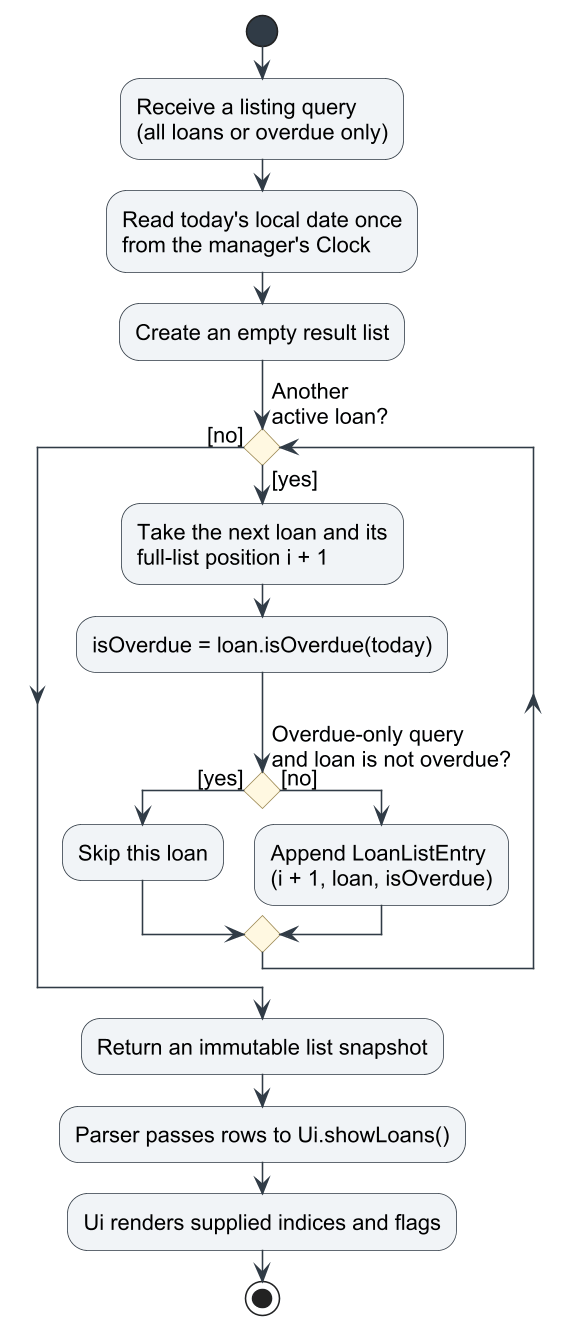
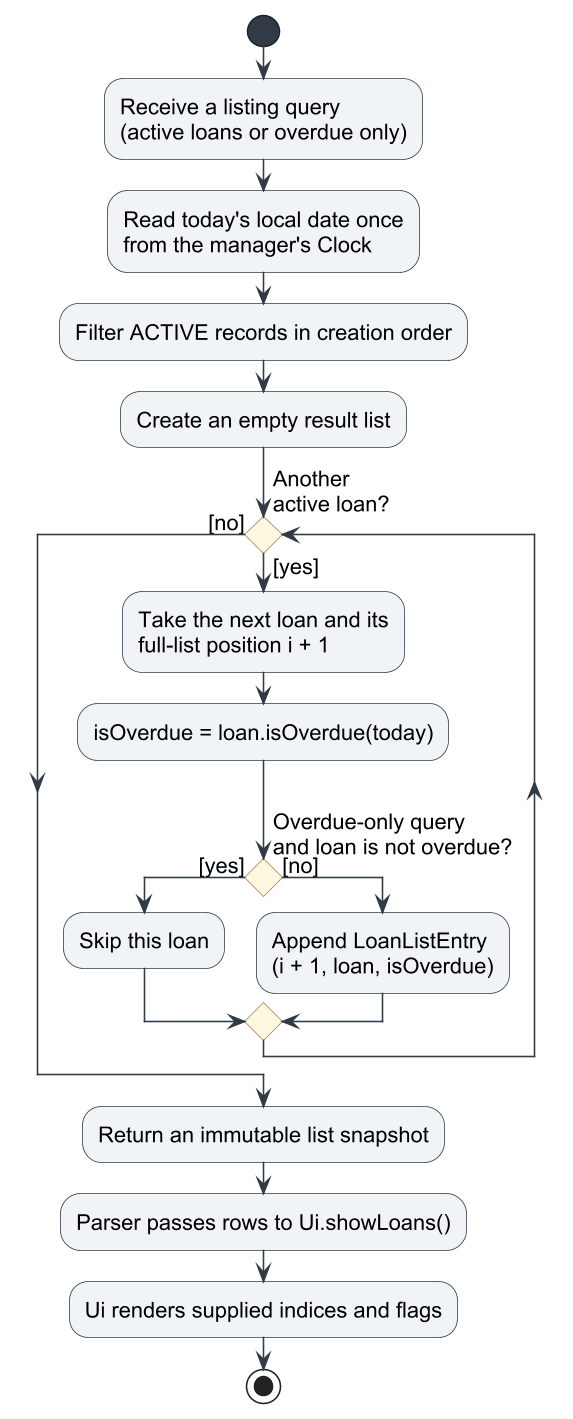
docs: Describe loan history design and UML flows
The Developer Guide and loan diagrams describe removal of completed
records, so they no longer explain the persistent ledger.

Document immutable lifecycle wrappers, stable identities, stock-safe
closure, complete snapshots, and migration. Retain the design
alternatives and update the class, sequence, activity, and architecture
diagrams to match the implementation.

Include rendered images with their editable PlantUML sources. Exclude
phase-planning tables and execution-log references.

Validation: all six updated diagrams are rendered and visually reviewed.

diff --git a/docs/DeveloperGuide.md b/docs/DeveloperGuide.md
@@ -21,6 +21,7 @@
   - [Session preparation](#session-preparation)
   - [Contact management](#contact-management)
   - [Loan tracking](#loan-tracking)
+    - [Loan history](#loan-history)
   - [Student request tracking](#student-request-tracking)
   - [Broken-item tracking](#broken-item-tracking)
   - [Validation and error handling](#validation-and-error-handling)
@@ -150,11 +151,12 @@ The model is composed of domain objects and managers:
 - [`BrokenItemManager`](../src/main/java/seedu/bob/BrokenItemManager.java) coordinates reports, shared inventory,
   and maintenance-contact availability.
 - [`BrokenItem`](../src/main/java/seedu/bob/BrokenItem.java) holds immutable validated damage-report details.
-- [`LoanManager`](../src/main/java/seedu/bob/LoanManager.java) stores active loans and shares the inventory with loans.
+- [`LoanManager`](../src/main/java/seedu/bob/LoanManager.java) retains all loan records and exposes active-only views using the shared inventory.
 - [`Loan`](../src/main/java/seedu/bob/Loan.java) stores an independent item snapshot, quantity, borrower values, and due date.
+- [`LoanRecord`](../src/main/java/seedu/bob/LoanRecord.java) retains a permanent ID, lifecycle status, and recording/closure timestamps.
 - `LoanAdditionResult` and `LoanListEntry` carry immutable operation/query results to the loan UI.
 - `AppState` groups the managers, exports snapshots, and restores complete independent model state.
-- `AppSnapshot` and its nested records describe version-1 storage values without retaining mutable model references.
+- `AppSnapshot` and its nested records describe version-2 storage values without retaining mutable model references.
 
 Managers expose operations rather than their mutable internal collections. Where a collection is returned for querying,
 the implementation returns an immutable snapshot. Domain classes maintain invariants such as positive quantities,
@@ -162,8 +164,9 @@ nonblank names, and conflict-free sessions.
 
 ### Storage component
 
-The [version-1 storage format and behavior contract](StorageFormat.md) defines the persisted fields and recovery
-rules, with [populated](examples/bob-v1.json) and [empty](examples/bob-v1-empty.json) examples.
+The [version-2 storage format and behavior contract](StorageFormat.md) defines the persisted fields and recovery
+rules, with [loan-ledger](examples/bob-v2.json) and [empty](examples/bob-v2-empty.json) examples.
+The older version-1 examples remain fixtures for strict, non-writing migration tests.
 
 ![Storage classes and immutable snapshot boundary](images/storage-class.png)
 
@@ -189,7 +192,8 @@ back, protecting newer-format records. Neither unusable files nor unreadable dir
 
 `SnapshotCodec` uses Gson with strict parsing and a bounded reader that detects duplicate object keys. It checks
 exact field sets and primitive types before deserialization, including explicit nullable contact fields and integer
-ranges. Earlier version-1 files without `brokenItems` load with an empty report list.
+ranges. Version-1 active loans are converted to version-2 history entries in memory, with deterministic IDs
+and unknown recording timestamps. Earlier version-1 files without `brokenItems` load with an empty report list.
 Domain restoration then checks values, duplicates, and session conflicts. JSON errors, unsupported versions,
 and I/O failures are distinguished by `StorageException.Kind`. The default `data` directory is ignored by Git.
 
@@ -198,7 +202,7 @@ the previous valid main as a backup, then replaces the main with an atomic move.
 the save. A corrupt main is never copied over a valid backup. Unsupported atomic moves fail explicitly rather
 than falling back to an in-place write. Temporary cleanup never removes the main or backup. This protects complete
 snapshots across process interruption; it is not a guarantee against all disk or power failures. Concurrent writers
-to the same directory and automatic schema migration are unsupported.
+to the same directory and migration from unsupported schema versions are not supported.
 
 Broken reports are restored separately from available inventory, without deducting their units again.
 Active contact positions reconnect reports to the exact restored contact; deleted-contact details restore a
@@ -783,7 +787,7 @@ word), so a value containing a word such as `a/b` cannot be entered. This affect
 
 ### Loan tracking
 
-Loan tracking supports recording loans (`add-l`), listing active or overdue loans (`list-l [overdue]`), correcting an
+Loan tracking supports recording loans (`add-l`), listing active, overdue, complete-history, or returned-only views, correcting an
 incorrect record (`delete-l INDEX`), and recording a full return (`return INDEX`). Each accepted loan deducts available
 stock; either removal command restores the entire loan quantity before removing the record.
 
@@ -794,17 +798,19 @@ This gives all features a consistent view of available stock. Loan tracking divi
 
 - **Parser** validates command syntax, constructs domain objects, invokes the manager, and passes results to the UI.
 - **Loan** captures item details, quantity, borrower name and phone, and a strictly parsed due date.
-- **LoanManager** maintains active loans, coordinates stock changes, and evaluates overdue status using its `Clock`.
+- **LoanManager** maintains all lifecycle records, coordinates stock changes, and evaluates overdue status using its `Clock`.
+- **LoanRecord** wraps loan details with a stable ID, status, and optional recording/closure timestamps.
 - **Inventory** locates items case-insensitively, validates stock changes, and removes or recreates depleted entries.
 - **Ui** renders successful results, warnings, listing rows, and empty states.
 
-`LoanManager` stores an `ArrayList<Loan>` in insertion order. Each addition creates an independent record, even when its
-item and borrower match another loan. The displayed index is a one-based position in the full active list.
+`LoanManager` stores an `ArrayList<LoanRecord>` in creation order and a persisted `nextLoanId`. Each addition is
+independent, even when its details match another record. Active lists filter `ACTIVE` records before assigning
+one-based action indices; returned and voided records remain in the full collection with their permanent IDs.
 
 ![Loan tracking class diagram](images/loan-tracking-class.png)
 
-*Figure 6: Selected loan classes and navigable relationships. The filled diamond shows that a loan owns its private item
-snapshot. The dashed dependency on `Contact` is used during construction; no contact reference is retained. Parser, UI,
+*Figure 6: Selected loan classes and navigable relationships. The manager retains lifecycle wrappers around immutable
+loan details. The filled diamond shows that a loan owns its private item snapshot. The dashed dependency on `Contact` is used during construction; no contact reference is retained. Parser, UI,
 result classes, constructors, routine getters, and inventory internals are omitted.*
 
 The `InventoryItem` owned by a loan is a separate object from live inventory stock. `Loan` exposes only its values, so
@@ -814,7 +820,7 @@ details of a loan even when the source inventory entry disappears or a source co
 
 #### Key operations
 
-- `LoanManager#addLoan(Loan loan)` deducts stock, appends the loan, and returns a `LoanAdditionResult` with its addition-time
+- `LoanManager#addLoan(Loan loan)` deducts stock, appends a new active `LoanRecord`, advances its ID counter, and returns a `LoanAdditionResult` with its addition-time
   overdue flag. The UI uses that flag for the backlog warning.
 - `Inventory#lendItem(String name, String category, int quantity)` validates and deducts available units. It shares the
   private deduction path with `delete-i`, including cleanup of depleted items and empty categories.
@@ -822,7 +828,9 @@ details of a loan even when the source inventory entry disappears or a source co
   its full-list index, and its query-time overdue flag.
 - `Loan#isOverdue(LocalDate today)` returns whether its due date is strictly before the supplied date.
 - `LoanManager#returnLoan(int userIndex)` and `deleteLoan(int userIndex)` delegate to the private
-  `removeLoanAndRestoreStock()` method and return the removed loan for their distinct UI confirmations.
+  `closeLoanAndRestoreStock()` method, replacing the selected wrapper with `RETURNED` or `VOIDED` metadata after
+  stock restoration. They return the original loan details for their distinct UI confirmations.
+- `getLoanHistory()` and `getReturnedLoans()` return immutable record views; IDs and recorded dates are rendered by `Ui`.
 - `Inventory#restoreStock(String name, String category, int quantity)` merges matching stock or recreates a missing item
   or category. It rejects integer overflow before changing stock.
 
@@ -842,7 +850,8 @@ add-l n/Multimeter c/Equipment q/2 b/Alex Tan t/91234567 d/30 October 2099
 
 `Parser` validates the prefixes and quantity, constructs a borrower `Contact`, and constructs a `Loan`. The loan copies
 the borrower's values, parses the due date, and creates its item snapshot. Construction does not alter stock.
-`LoanManager#addLoan()` then asks inventory to deduct two units before appending the record. Inventory now holds three
+`LoanManager#addLoan()` validates the next ID and captures the recording time, then deducts two units before
+appending the record and advancing the counter. Inventory now holds three
 units, while loan 1 independently records two.
 
 **Step 2: Keep a repeated loan separate**
@@ -868,7 +877,7 @@ the candidate loan. `Parser` displays the error; no success confirmation or over
 return 1
 ```
 
-The manager restores the first loan's two units before removing that record. The second loan becomes index 1 without
+The manager restores the first loan's two units before marking its record `RETURNED` and recording its closure time. The second loan becomes index 1 without
 changing its recorded quantity or due date. Users should refresh `list-l` after removal before choosing another index.
 
 **Step 5: Correct an incorrect record**
@@ -878,7 +887,8 @@ delete-l 1
 ```
 
 This uses the same restoration path as a return but displays a correction confirmation. All five units are available
-again, and the active loan list is empty. Neither removal command changes supplier contacts nor session requirements.
+again, and the active loan list is empty. History retains the first record as `RETURNED` and the second as `VOIDED`.
+Neither closure changes supplier contacts or session requirements.
 
 | After operation | Available Multimeters | Active loans, in displayed order |
 | --- | --- | --- |
@@ -903,17 +913,18 @@ omitted. `Ui` is shown by its class name because its display methods are static.
 *Figure 7: Stock deduction succeeds before the loan is appended. The manager returns data to Parser, which invokes Ui.*
 
 If command parsing or domain construction fails, the manager is never called. If inventory rejects lending, execution
-stops before `loans.add(loan)`. The manager computes the addition result's overdue flag before deduction, but returns it
+stops before `records.add(record)` or counter advancement. The manager computes the addition result's overdue flag before deduction, but returns it
 only after successful insertion; a rejected backlog request therefore produces no overdue warning.
 
 #### Interactions during a full return
 
-`returnLoan()` and `deleteLoan()` share `removeLoanAndRestoreStock()`. The sequence shows `return 1` using a valid index
+`returnLoan()` and `deleteLoan()` share `closeLoanAndRestoreStock()`. The sequence shows `return 1` using a valid index
 and successful restoration. A correction follows the same model interaction, followed by `Ui.showLoanDeleted()`.
 
 ![Successful full loan return sequence diagram](images/loan-return-sequence.png)
 
-*Figure 8: The selected record is retrieved, its units are restored, and only then is it removed from the active list.*
+*Figure 8: The selected active record is resolved, a closed replacement is prepared, its units are restored, and only
+then is the replacement installed. The original ID and loan details remain in history.*
 
 Restoration matches the item name and category ignoring case. If the entry has disappeared after lending all its stock,
 inventory recreates it; otherwise, the quantity is increased. If adding the quantity would exceed `Integer.MAX_VALUE`,
@@ -955,8 +966,8 @@ Independent snapshots are simpler for the supported full-return workflow.
 
 **Aspect 2: Coordinating inventory and loan changes**
 
-**Current approach:** `LoanManager` coordinates both operations, deducting before insertion and restoring before removal.
-Inventory owns matching, quantity validation, and cleanup. Both return and correction reuse one restoration path.
+**Current approach:** `LoanManager` coordinates both operations, deducting before insertion and restoring before closure.
+Inventory owns matching, quantity validation, and cleanup. Both return and correction reuse one restoration path while retaining distinct terminal statuses.
 
 This prevents expected stock errors from leaving an accepted record without a matching stock change. It also avoids
 duplicating inventory rules in the parser.
@@ -967,14 +978,15 @@ commands sequentially and commits inventory and loans together as one file snaps
 
 **Aspect 3: Identifying loans in filtered views**
 
-**Current approach:** Keep an insertion-ordered list and carry its one-based positions into filtered result rows.
+**Current approach:** Retain permanent IDs for bookkeeping, while carrying full active-list positions into active
+and overdue result rows. The complete ledger is filtered before action indices are assigned.
 
 The same index selects the same active record in either view, without maintaining a second index map. Positions can
 change after removal, so users must obtain a fresh listing.
 
-**Alternative:** Assign permanent loan IDs and store records in a map. IDs remain stable after deletion but require ID
-generation and a different command/display convention. Full-list positions match the project's session and contact
-commands and are sufficient for this version.
+**Alternative:** Change all action commands to accept permanent IDs and store records in a map. This would avoid
+stale action positions, but changes established command semantics. The implementation keeps explicit history IDs
+separate from active indices; ID generation and its durable counter are required for the ledger in either case.
 
 **Aspect 4: Determining overdue status**
 
@@ -1030,7 +1042,7 @@ The alternative above could provide a suitable foundation for that extension.
 
 | Component | Responsibility |
 | --- | --- |
-| `Parser` | Exact prefix order, positive integer conversion, plain removal indices, and the optional lowercase `overdue` filter. |
+| `Parser` | Exact prefix order, positive integers, active action indices, and lowercase `overdue`, `history`, or `returned` filters. |
 | `Loan` / `Contact` | Nonblank item and borrower details, digits-only phone, positive quantity, and a valid due date. |
 | `LoanManager` | Nonnull dependencies/records, valid full-list indices, clock-based overdue queries, and operation ordering. |
 | `Inventory` | Valid identifiers, matching stock, positive quantities, sufficient available stock, and overflow-safe restoration. |
@@ -1047,12 +1059,14 @@ checks. Console scenarios are recorded as `UI-LOAN-*` in the [UI test plan](../t
 
 #### Loan tracking limitations
 
-- Returns and corrections always restore the complete quantity. Partial returns, loan editing, and return history are
-  not supported.
+- Returns and corrections always restore the complete quantity. Partial returns, loan editing, and history deletion
+  are not supported.
 - Loan indices are list positions, so previously captured indices can become stale after removal.
 - Stock is matched by case-insensitive name/category, without a permanent item identifier.
 - Due dates have day precision and use the manager clock's timezone; no automatic notifications are sent.
-- Active loans persist with available inventory; completed returns and corrections leave no history.
+- All loan records persist with available inventory. History accumulates and increases snapshot comparison/write costs.
+
+The [loan history design](#loan-history) below explains retention, migration, and the alternatives considered.
 
 #### Diagram sources
 
@@ -1064,6 +1078,140 @@ The section follows the walkthrough and design-alternatives format of the
 [AB3 implementation example](https://se-education.org/addressbook-level3/DeveloperGuide.html#proposed-implementation).
 See the [SE-EDU PlantUML tutorial](https://se-education.org/guides/tutorials/plantUml.html) for editing and image export.
 Export PNGs into `docs/images/` after changing a source so the guide's images remain in sync.
+
+#### Loan history
+
+**Status: implemented.** Active, returned, and voided records persist in schema version 2. The following design
+record explains the lifecycle, migration rules, and alternatives considered. Existing action commands
+still use active-list indices; the additional views expose permanent identities for bookkeeping.
+
+##### Objective and lifecycle
+
+The manager keeps every successfully recorded loan for bookkeeping, including loans that have been returned or corrected.
+It uses one permanent, insertion-ordered collection and derives active and historical views from it.
+An incorrect entry closed with `delete-l` remains as a voided record, distinguishable from a genuine return.
+
+| Operation | Record change | Inventory effect |
+| --- | --- | --- |
+| `add-l ...` | Create a new `ACTIVE` record with a permanent ID. | Deduct the recorded quantity once. |
+| `return INDEX` | Replace the selected active record with a `RETURNED` version and closure timestamp. | Restore its complete quantity once. |
+| `delete-l INDEX` | Replace the selected active record with a `VOIDED` version and closure timestamp. | Restore its complete quantity once. |
+| History query or restart | Preserve records and their statuses. | No deductions or restorations. |
+
+`RETURNED` and `VOIDED` are terminal states: neither can be returned or voided again. Normal commands should not
+permanently erase records. Retaining voided entries preserves an account of corrections without counting them as
+completed borrowing. Optional correction reasons, editing, partial returns, reopening records, export, and permanent
+history deletion are outside the initial implementation.
+
+##### Record model, identifiers, and timestamps
+
+Keep `Loan` as the existing immutable snapshot of item details, quantity, borrower name and phone, and due date.
+The implementation adds an immutable `LoanRecord` wrapper for lifecycle metadata; closing a loan replaces its wrapper while
+retaining its ID and original loan details. Existing references to loan details cannot change historical values.
+
+| Model/storage value | Purpose and validation |
+| --- | --- |
+| `loanId` | Positive, permanent sequential ID. Separate loans receive different IDs even when all their details match. |
+| `loan` | Existing immutable `Loan` details, including captured borrower values rather than live contact references. |
+| `status` | Exactly `ACTIVE`, `RETURNED`, or `VOIDED`; unsupported values are rejected. |
+| `recordedAt` | Timestamp when the loan entry was recorded in Bob. Nullable for imported records whose original timestamp is unknown. |
+| `closedAt` | Timestamp when Bob records the return or correction. Required for closed records and absent for active records. |
+| `nextLoanId` | Manager-level counter persisted alongside the records; positive and greater than every stored loan ID. |
+
+The manager's injected `Clock` supplies timestamps. ISO offset timestamps preserve their local-time context in
+storage; the console intentionally shows readable calendar dates in that recorded offset. `recordedAt` is not an
+asserted physical borrowing time: backlog loans are
+already supported, and entering a past due date does not reveal when the item was actually borrowed. Similarly,
+`closedAt` records the closure command's time. Do not invent missing dates during migration.
+
+IDs and the next-ID counter use validated positive 64-bit integers; existing quantity limits remain unchanged.
+Validate ID availability and construct the candidate record before deducting stock. Advance the counter only after
+an accepted addition, and reject counter overflow before any inventory change. Loading rejects duplicate IDs,
+invalid counters, malformed timestamps, and inconsistent status/closure fields.
+
+Keep `return INDEX` and `delete-l INDEX` tied to the latest active-loan list. Resolve those positions through the
+filtered active records, not through positions in the complete collection. Overdue listings retain full active-list
+positions, as they do today. A permanent loan ID is an identity for bookkeeping, not another name for a displayed
+active index. History output must label IDs clearly and direct users to `list-l` before selecting an active index.
+
+##### Stock consistency and integration
+
+`LoanManager` should remain the only coordinator of loan and inventory changes. Before a return or correction,
+validate the active index and prepare the closed record. Restore inventory before replacing the active record.
+An invalid index, an already closed record, or stock-restoration overflow must leave both inventory and the record
+unchanged. A closed record must never restore stock again, including after a restart.
+
+Preserve `getLoans()` as an active-only view so callers such as `ItemFinder` do not mistake historical quantities
+for equipment still on loan. Active and overdue result rows should continue using the existing display rules.
+Late status for an active loan remains a query-time calculation; a permanently stored overdue flag would become stale.
+
+For example, start with five available units and record loans of two and one units. Returning active index 1 should
+leave four units available, retain the first record as `RETURNED`, and display the second record at active index 1.
+Voiding that remaining active loan should restore availability to five and retain its record as `VOIDED`.
+History then contains both original IDs, while the active view is empty. Restarting must preserve this result.
+
+##### Persistence and version-1 compatibility
+
+Use schema version 2 because loan storage changes from active-only entries to permanent records with lifecycle
+metadata. Extend `AppSnapshot`, `AppState`, and `SnapshotCodec` to include every loan record and `nextLoanId`.
+Keep inventory, loan history, and the other feature collections in the same complete snapshot, so the existing
+atomic main-file replacement cannot save an inventory return separately from its loan status.
+
+The version-2 reader also accepts valid version-1 files. Convert their loans into `ACTIVE` records in memory,
+assign IDs in their existing order, set `nextLoanId` above the assigned IDs, and leave unknown recording timestamps
+null. Preserve all other saved features, including compatibility with the older omission of `brokenItems`.
+Perform conversion before restoring the current model, without replaying add or return commands or changing stock.
+
+Reading a valid version-1 main file, including read-only commands followed by ordinary exit, should not rewrite it.
+The next successful data-changing command saves version 2 and retains the validated previous main as its backup.
+Recovering an older backup restores that ledger and its counter together. Newer lost IDs are not reserved;
+sequential IDs are stable within the retained dataset, not globally unique across independent or rolled-back copies.
+Existing backup recovery still marks restored state as pending and may repair the main on exit. Loading or saving
+must continue to reject unsupported newer versions and preserve the existing backup, temporary-file, and failure
+handling rules. Version-2 validation must not weaken strict version-1 validation.
+
+History and counter changes must participate in snapshot equality so the existing autosave detection sees closures
+and new records. A failed save leaves the full changed live state pending and reports the existing warning; later
+retry must save the same IDs and timestamps without repeating a stock operation. A disk save failure does not turn
+a successful in-memory return into a second return attempt.
+
+Previously returned or deleted loans cannot be reliably reconstructed from version-1 active-only snapshots.
+Existing backups are previous snapshots, not a complete loan ledger. Migration imports available active records;
+history retention starts with this feature, without fabricating earlier returns or their dates.
+
+##### Commands and views
+
+| Command | View |
+| --- | --- |
+| `list-l` | Active loans only, preserving existing command behavior. |
+| `list-l overdue` | Overdue active loans, retaining active-list indices. |
+| `list-l history` | All active, returned, and voided records in creation order. |
+| `list-l returned` | Returned records only. |
+
+History rows include the permanent ID, status, item/category, quantity, borrower details, due date, and
+recording/closure dates. The complete offset timestamps remain stored in JSON. An imported missing timestamp
+is shown as `Unknown`, rather than as today's date.
+Use creation order rather than sorting on timestamps, which can be unknown for imported records. Queries should
+return immutable result rows, render through `Ui`, and never mutate the model or rewrite storage files.
+Exact output, empty states, and argument validation were recorded in the UI plan before implementation.
+
+##### Considerations and alternatives
+
+| Design question | Recommended approach and rationale | Alternative and tradeoff |
+| --- | --- | --- |
+| Where to keep active and closed records | One permanent collection with filtered views avoids duplicating a loan or moving it between independent lists. | Separate active and history collections simplify individual queries but need coordinated moves and additional uniqueness checks. |
+| How to represent lifecycle metadata | Wrap immutable `Loan` details in a `LoanRecord`, replacing the wrapper when closing. This keeps existing loan value behavior separate from bookkeeping. | Add mutable lifecycle fields directly to `Loan`; fewer classes, but retained references and snapshot independence become harder to reason about. |
+| How to identify records | Persist sequential IDs and their next counter; they are readable and preserve identity after list renumbering. Keep active indices for existing action commands. | UUIDs avoid a shared counter but are less convenient to read. Switching all actions to permanent IDs would change existing command semantics. |
+| How to retain corrections | Mark incorrect entries `VOIDED`, preserving their details separately from genuine returns. | Hard deletion loses the correction trail; treating corrections as returns would misrepresent bookkeeping. |
+| Where to store history | Extend the existing complete JSON snapshot so inventory and history are replaced together. | A separate history file needs coordination across two file replacements. SQLite could provide database transactions and efficient larger queries, but adds dependencies and migration work. |
+| How to evolve the file format | Write version 2 and explicitly convert valid version-1 data in memory. Older readers can reject the new version clearly. | Reuse version 1 with optional lifecycle fields; fewer version branches, but it changes the meaning of an established strict format and complicates compatibility. |
+| How to represent a full audit trail | Retain each original loan plus its terminal status and timestamps. This is sufficient for the implemented full-return workflow. | An append-only event log could record every action, but requires event replay, validation, and recovery rules. Consider it if partial returns or record edits are added. |
+| How to handle historical dates | Preserve known timestamps and display unknown imported values explicitly. | Using migration time as the original recording time makes old records look newly created and gives misleading bookkeeping dates. |
+| How to scale retained history | Start with the existing in-memory collection and complete snapshots for the expected small dataset. Document that records accumulate. | Filtering, pagination, archival, or database storage may become useful as history grows; pagination alone does not reduce snapshot-copying or disk-write costs. |
+
+Permanent IDs do not require changing the available-stock inventory model or adding permanent item identifiers.
+The earlier total-stock alternative remains a separate design choice. Partial returns would require additional
+quantity invariants and return-event data, so they should not be included implicitly in this history extension.
 
 ### Student request tracking
 
